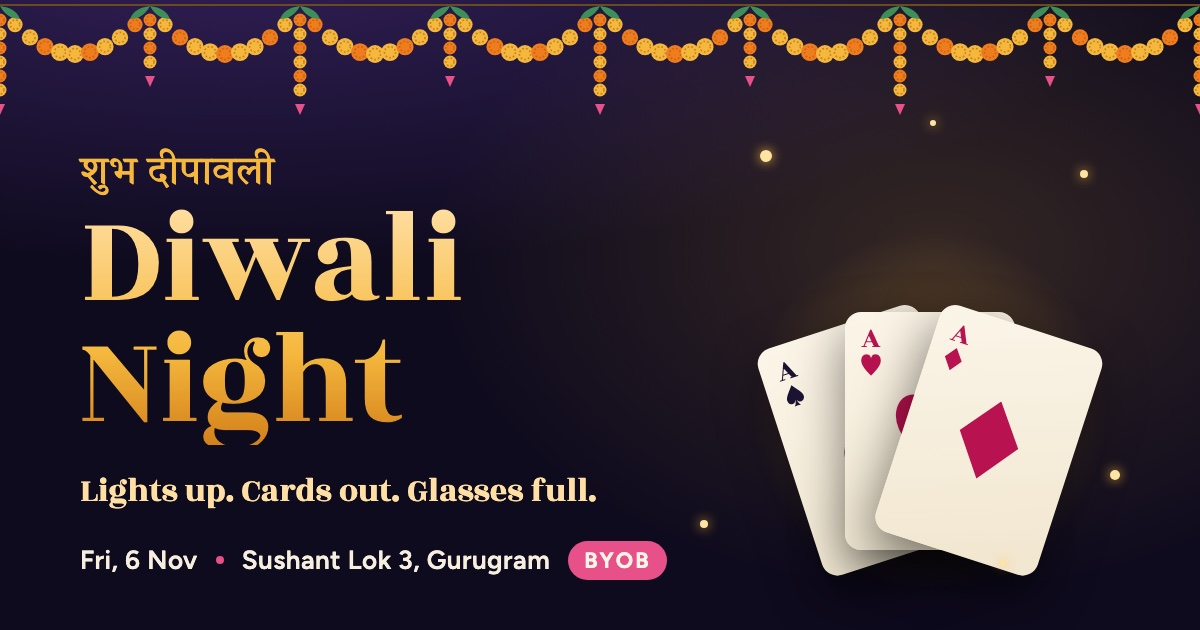
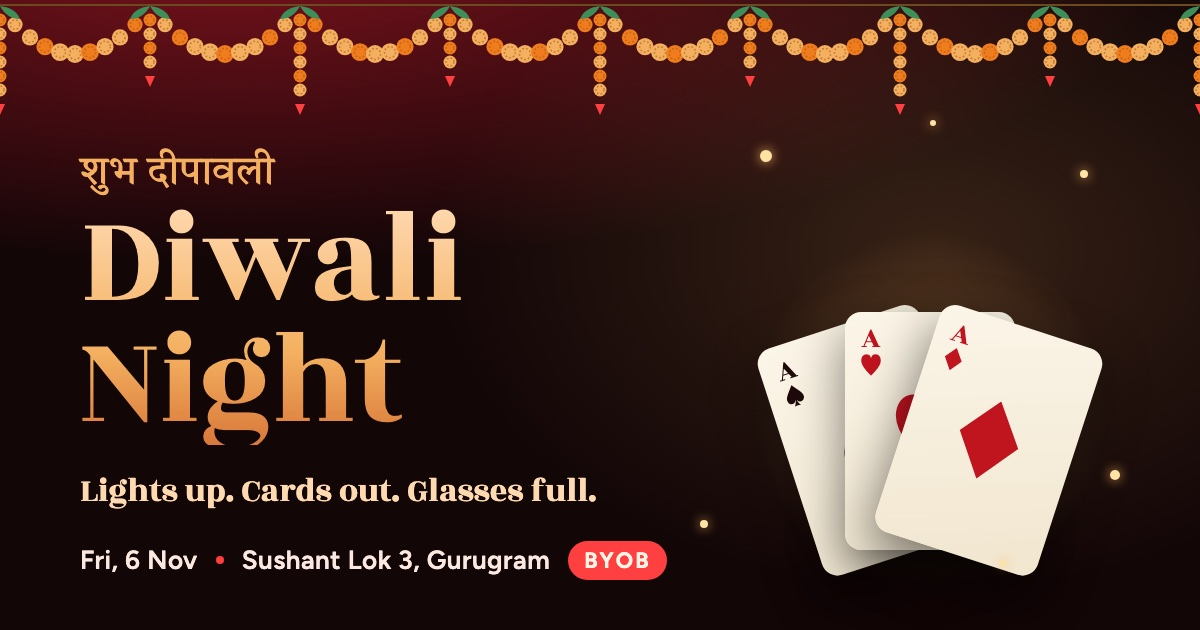
Red house-party colour theme; refresh link preview image

diff --git a/index.html b/index.html
@@ -3,19 +3,19 @@
 <head>
 <meta charset="utf-8">
 <meta name="viewport" content="width=device-width, initial-scale=1, viewport-fit=cover">
-<meta name="theme-color" content="#0F0B1E">
+<meta name="theme-color" content="#120607">
 <meta name="description" content="Lights up. Cards out. Glasses full. Cards, drinks and golden lights on Fri, 6 Nov at Sushant Lok 3, Gurugram. BYOB.">
 <meta property="og:type" content="website">
 <meta property="og:title" content="Diwali Night · Fri, 6 Nov">
 <meta property="og:description" content="Lights up. Cards out. Glasses full. Cards, drinks and golden lights at Sushant Lok 3, Gurugram. BYOB. Tap to RSVP.">
-<meta property="og:image" content="https://raw.githubusercontent.com/yatharthtaneja/diwali-invite/main/preview.jpg">
-<meta property="og:image:secure_url" content="https://raw.githubusercontent.com/yatharthtaneja/diwali-invite/main/preview.jpg">
+<meta property="og:image" content="https://raw.githubusercontent.com/yatharthtaneja/diwali-invite/main/preview.jpg?v=red">
+<meta property="og:image:secure_url" content="https://raw.githubusercontent.com/yatharthtaneja/diwali-invite/main/preview.jpg?v=red">
 <meta property="og:image:type" content="image/jpeg">
 <meta property="og:image:width" content="1200">
 <meta property="og:image:height" content="630">
 <meta property="og:image:alt" content="Diwali Night invite: three aces under a marigold garland">
 <meta name="twitter:card" content="summary_large_image">
-<meta name="twitter:image" content="https://raw.githubusercontent.com/yatharthtaneja/diwali-invite/main/preview.jpg">
+<meta name="twitter:image" content="https://raw.githubusercontent.com/yatharthtaneja/diwali-invite/main/preview.jpg?v=red">
 <title>Diwali Night Invite</title>
 <link rel="preconnect" href="https://fonts.googleapis.com">
 <link rel="preconnect" href="https://fonts.gstatic.com" crossorigin>
@@ -24,21 +24,21 @@
 /* Layout: a night-sky invitation. Marigold toran hangs across the top, centred title like a letterpress card,
    then the evening's details, three host cards for RSVP, and a row of unlit diyas that hides the game. */
 :root {
-  --night: #0F0B1E;
-  --dusk: #1A1430;
-  --dusk-2: #241B40;
-  --glow: #33205A;
-  --gold: #F5B83D;
-  --gold-soft: #FFDFA3;
-  --rani: #E8508A;
-  --rani-deep: #B8124F;
+  --night: #120607;
+  --dusk: #1F0B0C;
+  --dusk-2: #2C1012;
+  --glow: #7E121D;
+  --gold: #F4B060;
+  --gold-soft: #FFD9B0;
+  --rani: #FF4040;
+  --rani-deep: #C0141F;
   --leaf: #3E8E5A;
   --paper: #FBF5E8;
-  --ink: #1B1433;
-  --text: #F6EEDF;
-  --muted: #B3A8C8;
-  --line: rgba(245, 184, 61, 0.22);
-  --line-soft: rgba(246, 238, 223, 0.10);
+  --ink: #1E0A0B;
+  --text: #FBE8E1;
+  --muted: #C9A19C;
+  --line: rgba(244, 176, 96, 0.22);
+  --line-soft: rgba(251, 232, 225, 0.10);
 
   --f-display: "Rozha One", "Playfair Display", Georgia, serif;
   --f-body: "Figtree", system-ui, -apple-system, "Segoe UI", Roboto, sans-serif;
@@ -63,7 +63,7 @@ body {
   min-height: 100%;
   background:
     radial-gradient(130% 70% at 50% -10%, var(--glow) 0%, transparent 62%),
-    radial-gradient(80% 40% at 50% 105%, rgba(232, 80, 138, 0.10) 0%, transparent 70%),
+    radial-gradient(90% 45% at 50% 105%, rgba(255, 64, 64, 0.20) 0%, transparent 70%),
     var(--night);
   background-attachment: fixed;
   color: var(--text);
@@ -114,7 +114,7 @@ button { font: inherit; color: inherit; }
   border-radius: 10px;
   background: linear-gradient(160deg, var(--paper) 0%, #F1E6CF 100%);
   color: var(--ink);
-  box-shadow: 0 10px 30px rgba(0, 0, 0, .45), inset 0 0 0 1px rgba(27, 20, 51, .08);
+  box-shadow: 0 10px 30px rgba(0, 0, 0, .45), inset 0 0 0 1px rgba(30, 10, 11, .08);
   font-family: var(--f-display);
 }
 .card-face.red { color: var(--rani-deep); }
@@ -187,7 +187,7 @@ button { font: inherit; color: inherit; }
   font-family: var(--f-display); font-weight: 400;
   font-size: clamp(3rem, 15vw, 5.4rem); line-height: .95;
   letter-spacing: -.01em;
-  background: linear-gradient(180deg, var(--gold-soft) 0%, var(--gold) 70%, #D98A1F 100%);
+  background: linear-gradient(180deg, var(--gold-soft) 0%, var(--gold) 70%, #D9783A 100%);
   -webkit-background-clip: text; background-clip: text; color: transparent;
 }
 .intro-title p { margin: .2rem 0 0; color: var(--muted); letter-spacing: .28em; text-transform: uppercase; font-size: .78rem; font-weight: 600; }
@@ -204,11 +204,11 @@ button { font: inherit; color: inherit; }
 .gate-title {
   margin: 0; font-family: var(--f-display); font-weight: 400;
   font-size: clamp(3rem, 15vw, 5rem); line-height: .95;
-  background: linear-gradient(180deg, var(--gold-soft) 0%, var(--gold) 70%, #D98A1F 100%);
+  background: linear-gradient(180deg, var(--gold-soft) 0%, var(--gold) 70%, #D9783A 100%);
   -webkit-background-clip: text; background-clip: text; color: transparent;
   animation: breathe 2.4s ease-in-out infinite;
 }
-@keyframes breathe { 50% { filter: drop-shadow(0 0 18px rgba(245, 184, 61, .35)); } }
+@keyframes breathe { 50% { filter: drop-shadow(0 0 18px rgba(244, 176, 96, .35)); } }
 .gate-meta { margin: 0 0 1.2rem; color: var(--text); font-weight: 600; letter-spacing: .08em; font-size: var(--step--1); }
 
 /* disco lights + beat pulse */
@@ -224,13 +224,13 @@ button { font: inherit; color: inherit; }
   mix-blend-mode: screen;
   animation: sweep 3.87s ease-in-out infinite alternate;
 }
-.beam.b1 { background: linear-gradient(to top, rgba(232, 80, 138, .75), transparent 75%); left: 12%; animation-delay: -1s; }
-.beam.b2 { background: linear-gradient(to top, rgba(245, 184, 61, .7), transparent 75%); animation-duration: 2.9s; }
-.beam.b3 { background: linear-gradient(to top, rgba(67, 198, 181, .7), transparent 75%); left: 88%; animation-delay: -2.2s; animation-direction: alternate-reverse; }
+.beam.b1 { background: linear-gradient(to top, rgba(255, 64, 64, .75), transparent 75%); left: 12%; animation-delay: -1s; }
+.beam.b2 { background: linear-gradient(to top, rgba(244, 176, 96, .7), transparent 75%); animation-duration: 2.9s; }
+.beam.b3 { background: linear-gradient(to top, rgba(240, 133, 124, .7), transparent 75%); left: 88%; animation-delay: -2.2s; animation-direction: alternate-reverse; }
 @keyframes sweep { from { transform: rotate(-38deg); } to { transform: rotate(38deg); } }
 .pulse {
   position: absolute; inset: 0; pointer-events: none; opacity: 0;
-  background: radial-gradient(60% 50% at 50% 55%, rgba(232, 80, 138, .35), transparent 70%);
+  background: radial-gradient(60% 50% at 50% 55%, rgba(255, 64, 64, .35), transparent 70%);
 }
 #intro.is-groove .pulse { animation: kick .484s ease-out infinite; }
 @keyframes kick { 0% { opacity: 1; } 100% { opacity: 0; } }
@@ -247,14 +247,14 @@ button { font: inherit; color: inherit; }
   font-weight: 700; font-size: 1.05rem; letter-spacing: .04em;
   cursor: pointer;
   display: inline-flex; align-items: center; gap: .6rem;
-  box-shadow: 0 0 0 0 rgba(245, 184, 61, .5);
+  box-shadow: 0 0 0 0 rgba(244, 176, 96, .5);
   animation: pulse 2.2s ease-out infinite;
   transition: transform .2s var(--ease-out), background .2s;
 }
 .gate-btn:hover { background: var(--gold-soft); }
 .gate-btn:active { transform: scale(.97); }
 .gate-btn svg { width: 20px; height: 20px; }
-@keyframes pulse { 0% { box-shadow: 0 0 0 0 rgba(245, 184, 61, .45); } 100% { box-shadow: 0 0 0 22px rgba(245, 184, 61, 0); } }
+@keyframes pulse { 0% { box-shadow: 0 0 0 0 rgba(244, 176, 96, .45); } 100% { box-shadow: 0 0 0 22px rgba(244, 176, 96, 0); } }
 .gate-note { margin: .2rem 0 0; color: var(--muted); font-size: var(--step--1); }
 .gate-quiet { border: 0; background: none; color: var(--muted); font-size: var(--step--1); text-decoration: underline; text-underline-offset: 4px; text-decoration-color: var(--line); cursor: pointer; padding: .4rem; }
 .gate-quiet:hover { color: var(--text); }
@@ -265,7 +265,7 @@ button { font: inherit; color: inherit; }
   top: calc(14px + env(safe-area-inset-top, 0px)); right: 14px;
   width: 44px; height: 44px; border-radius: 50%;
   display: grid; place-items: center;
-  background: rgba(26, 20, 48, .78);
+  background: rgba(31, 11, 12, .78);
   border: 1px solid var(--line);
   backdrop-filter: blur(8px); -webkit-backdrop-filter: blur(8px);
   color: var(--gold-soft); cursor: pointer;
@@ -283,7 +283,7 @@ button { font: inherit; color: inherit; }
 #skip {
   position: absolute;
   right: 16px; bottom: calc(16px + env(safe-area-inset-bottom, 0px));
-  background: rgba(246, 238, 223, .06);
+  background: rgba(251, 232, 225, .06);
   border: 1px solid var(--line-soft);
   border-radius: 999px;
   padding: .55rem 1rem;
@@ -318,9 +318,9 @@ button { font: inherit; color: inherit; }
   font-size: var(--step-hero); line-height: .9;
   letter-spacing: -.015em;
   text-wrap: balance;
-  background: linear-gradient(180deg, var(--gold-soft) 0%, var(--gold) 62%, #D3801A 100%);
+  background: linear-gradient(180deg, var(--gold-soft) 0%, var(--gold) 62%, #D9783A 100%);
   -webkit-background-clip: text; background-clip: text; color: transparent;
-  filter: drop-shadow(0 6px 30px rgba(245, 184, 61, .18));
+  filter: drop-shadow(0 6px 30px rgba(244, 176, 96, .18));
 }
 .hero .lede { margin: 0; max-width: 34ch; font-size: clamp(1.05rem, 3.6vw, 1.3rem); color: var(--text); text-wrap: balance; }
 .hero .lede em { font-style: normal; color: var(--gold-soft); font-family: var(--f-display); font-size: 1.25em; line-height: 1.5; }
@@ -352,7 +352,7 @@ button { font: inherit; color: inherit; }
 .btn svg { width: 18px; height: 18px; flex: none; }
 .btn-gold { background: var(--gold); color: var(--ink); }
 .btn-gold:hover { background: var(--gold-soft); }
-.btn-ghost { border-color: var(--line); color: var(--text); background: rgba(245, 184, 61, .04); }
+.btn-ghost { border-color: var(--line); color: var(--text); background: rgba(244, 176, 96, .04); }
 .btn-ghost:hover { border-color: var(--gold); color: var(--gold-soft); }
 
 .sky-hint { margin: .4rem 0 0; font-size: var(--step--1); color: var(--muted); }
@@ -392,8 +392,8 @@ section.block { padding-block: 3.5rem; }
 .entry {
   justify-self: start; display: inline-flex; align-items: center; gap: .45rem;
   padding: .35rem .75rem; border-radius: 999px;
-  background: rgba(232, 80, 138, .14); border: 1px solid rgba(232, 80, 138, .4);
-  color: #FFD3E4; font-size: var(--step--1); font-weight: 600;
+  background: rgba(255, 64, 64, .14); border: 1px solid rgba(255, 64, 64, .4);
+  color: #FFD0C9; font-size: var(--step--1); font-weight: 600;
 }
 .entry svg { width: 15px; height: 15px; flex: none; }
 .detail .btn { justify-self: start; margin-top: .6rem; }
@@ -425,8 +425,8 @@ section.block { padding-block: 3.5rem; }
   border-radius: 50%;
   display: grid; place-items: center;
   font-family: var(--f-display); font-size: 1.5rem; color: var(--ink);
-  background: radial-gradient(circle at 35% 30%, var(--gold-soft), var(--gold) 60%, #C9771A);
-  box-shadow: 0 0 0 4px rgba(245, 184, 61, .12);
+  background: radial-gradient(circle at 35% 30%, var(--gold-soft), var(--gold) 60%, #C96A30);
+  box-shadow: 0 0 0 4px rgba(244, 176, 96, .12);
 }
 .host-name { font-family: var(--f-display); font-size: var(--step-1); line-height: 1.15; overflow-wrap: anywhere; }
 .host-phone { color: var(--muted); font-variant-numeric: tabular-nums; user-select: all; -webkit-user-select: all; font-size: var(--step--1); }
@@ -468,7 +468,7 @@ section.block { padding-block: 3.5rem; }
   position: fixed; inset: 0; z-index: 70;
   display: grid; place-items: center;
   padding: 16px;
-  background: rgba(10, 7, 22, .72);
+  background: rgba(18, 6, 7, .72);
   backdrop-filter: blur(6px); -webkit-backdrop-filter: blur(6px);
   opacity: 0; transition: opacity .35s ease;
 }
@@ -585,16 +585,16 @@ section.block { padding-block: 3.5rem; }
       <stop offset="1" stop-color="#E9A12E"/>
     </linearGradient>
     <radialGradient id="mgA" cx=".4" cy=".35" r=".7">
-      <stop offset="0" stop-color="#FFE08A"/><stop offset=".6" stop-color="#F5B83D"/><stop offset="1" stop-color="#C97A12"/>
+      <stop offset="0" stop-color="#FFE08A"/><stop offset=".6" stop-color="#F4B060"/><stop offset="1" stop-color="#C97A12"/>
     </radialGradient>
     <radialGradient id="mgB" cx=".4" cy=".35" r=".7">
       <stop offset="0" stop-color="#FFB46B"/><stop offset=".6" stop-color="#F07C1E"/><stop offset="1" stop-color="#B4500C"/>
     </radialGradient>
     <radialGradient id="flameG" cx=".5" cy=".75" r=".75">
-      <stop offset="0" stop-color="#FFFFFF"/><stop offset=".35" stop-color="#FFE7A0"/><stop offset=".75" stop-color="#F5A623"/><stop offset="1" stop-color="#E8508A" stop-opacity=".0"/>
+      <stop offset="0" stop-color="#FFFFFF"/><stop offset=".35" stop-color="#FFE7A0"/><stop offset=".75" stop-color="#F5A623"/><stop offset="1" stop-color="#FF4040" stop-opacity=".0"/>
     </radialGradient>
     <radialGradient id="haloG" cx=".5" cy=".5" r=".5">
-      <stop offset="0" stop-color="#F5B83D" stop-opacity=".55"/><stop offset="1" stop-color="#F5B83D" stop-opacity="0"/>
+      <stop offset="0" stop-color="#F4B060" stop-opacity=".55"/><stop offset="1" stop-color="#F4B060" stop-opacity="0"/>
     </radialGradient>
     <linearGradient id="clay" x1="0" y1="0" x2="0" y2="1">
       <stop offset="0" stop-color="#D9773A"/><stop offset="1" stop-color="#8A3B16"/>
@@ -604,10 +604,10 @@ section.block { padding-block: 3.5rem; }
       <circle class="bubble" cx="26" cy="64" r="1.4" fill="#FFF6DA"/>
       <circle class="bubble" cx="33" cy="66" r="1.1" fill="#FFF6DA"/>
       <circle class="bubble" cx="29" cy="62" r="1" fill="#FFF6DA"/>
-      <path d="M12 6 L48 6 L44 70 Q30 86 16 70 Z" fill="rgba(255,255,255,.07)" stroke="#FFDFA3" stroke-width="1.6" stroke-linejoin="round"/>
+      <path d="M12 6 L48 6 L44 70 Q30 86 16 70 Z" fill="rgba(255,255,255,.07)" stroke="#FFD9B0" stroke-width="1.6" stroke-linejoin="round"/>
       <path d="M17 12 L19 58" stroke="#FFFFFF" stroke-opacity=".35" stroke-width="2" stroke-linecap="round"/>
-      <rect x="28.6" y="80" width="2.8" height="60" rx="1.4" fill="#FFDFA3"/>
-      <ellipse cx="30" cy="143" rx="17" ry="4" fill="none" stroke="#FFDFA3" stroke-width="1.6"/>
+      <rect x="28.6" y="80" width="2.8" height="60" rx="1.4" fill="#FFD9B0"/>
+      <ellipse cx="30" cy="143" rx="17" ry="4" fill="none" stroke="#FFD9B0" stroke-width="1.6"/>
     </g>
     <g id="diya-art">
       <ellipse class="halo" cx="32" cy="30" rx="30" ry="30" fill="url(#haloG)"/>
@@ -615,8 +615,8 @@ section.block { padding-block: 3.5rem; }
         <path class="flame-inner" d="M32 8 C38 18 40 24 36.5 30 C34.5 33.5 29.5 33.5 27.5 30 C24 24 26 18 32 8 Z" fill="url(#flameG)"/>
       </g>
       <path d="M6 36 Q8 33 12 34 L52 34 Q56 33 58 36 Q54 56 32 57 Q10 56 6 36 Z" fill="url(#clay)"/>
-      <path d="M6 36 Q32 42 58 36" fill="none" stroke="#F5B83D" stroke-width="1.6" opacity=".9"/>
-      <path d="M14 45 Q32 50 50 45" fill="none" stroke="#FFDFA3" stroke-width="1" stroke-dasharray="1.5 3.5" stroke-linecap="round" opacity=".8"/>
+      <path d="M6 36 Q32 42 58 36" fill="none" stroke="#F4B060" stroke-width="1.6" opacity=".9"/>
+      <path d="M14 45 Q32 50 50 45" fill="none" stroke="#FFD9B0" stroke-width="1" stroke-dasharray="1.5 3.5" stroke-linecap="round" opacity=".8"/>
       <ellipse cx="32" cy="33.5" rx="4" ry="1.4" fill="#3A1A0A"/>
     </g>
   </defs>
@@ -683,10 +683,10 @@ section.block { padding-block: 3.5rem; }
           <div class="byob">
             <svg class="stamp" viewBox="0 0 100 100" aria-hidden="true">
               <defs><path id="circ" d="M50 50 m-38 0 a38 38 0 1 1 76 0 a38 38 0 1 1 -76 0"/></defs>
-              <circle cx="50" cy="50" r="48" fill="none" stroke="#F5B83D" stroke-width="1.2"/>
-              <circle cx="50" cy="50" r="28" fill="#E8508A"/>
+              <circle cx="50" cy="50" r="48" fill="none" stroke="#F4B060" stroke-width="1.2"/>
+              <circle cx="50" cy="50" r="28" fill="#FF4040"/>
               <g class="ring">
-                <text font-family="Figtree, sans-serif" font-size="9.2" font-weight="700" letter-spacing="2.6" fill="#FFDFA3">
+                <text font-family="Figtree, sans-serif" font-size="9.2" font-weight="700" letter-spacing="2.6" fill="#FFD9B0">
                   <textPath href="#circ">BRING YOUR OWN BOTTLE ✦ BRING YOUR OWN BOTTLE ✦</textPath>
                 </text>
               </g>
@@ -849,7 +849,7 @@ const INVITE = {
     const sw = w / n, depth = Math.min(w < 600 ? 42 : 54, sw * .38);
     let out = `<line x1="0" y1="5" x2="${w}" y2="5" stroke="#6B4A1F" stroke-width="1.5"/>`;
     // fairy lights: one long draped strand, swags twice as wide as the garland's, sitting under it
-    const fw = sw * 2, fd = h - 26, cols = ["#FFF1C9", "#FFF1C9", "#F5B83D", "#FF8DB8", "#FFF1C9", "#7FE3D4"];
+    const fw = sw * 2, fd = h - 26, cols = ["#FFF1C9", "#FFF1C9", "#F4B060", "#FF8A80", "#FFF1C9", "#F7A9A0"];
     let bi = 0;
     for (let x0 = -sw; x0 < w + sw; x0 += fw) {
       const yAt = t => 12 + 4 * fd * t * (1 - t);
@@ -878,7 +878,7 @@ const INVITE = {
       out += `<path d="M${x} 6 q-14 2 -18 12 q12 0 18 -12 z M${x} 6 q14 2 18 12 q-12 0 -18 -12 z" fill="#3E8E5A"/>`;
       for (let j = 0; j < len; j++) out += bloom(x, 18 + j * 12, 5.6, j % 2 ? "mgB" : "mgA");
       const yb = 18 + len * 12;
-      out += `<path d="M${x - 4} ${yb} l4 9 l4 -9 z" fill="#E8508A"/>`;
+      out += `<path d="M${x - 4} ${yb} l4 9 l4 -9 z" fill="#FF4040"/>`;
     }
     svg.setAttribute("viewBox", `0 0 ${w} ${h}`);
     svg.innerHTML = out;
@@ -894,11 +894,11 @@ const INVITE = {
   const Sky = (() => {
     const cv = $("#sky"), ctx = cv.getContext("2d");
     const PAL = [
-      ["#FFE3A3", "#F5B83D", "#FFB347", "#FFF4D6"],
-      ["#FF8DB8", "#E8508A", "#FFD3E4", "#FFB0CC"],
-      ["#9FF0E1", "#43C6B5", "#E8FFF9", "#7FE3D4"],
-      ["#C9B6FF", "#8E6CFF", "#F1EBFF", "#B39DFF"],
-      ["#FFFFFF", "#FFE9C2", "#F5B83D", "#FFF6E0"],
+      ["#FFE3A3", "#F4B060", "#FFB347", "#FFF4D6"],
+      ["#FF8A80", "#FF4040", "#FFD0C9", "#FFA79E"],
+      ["#FFC4BC", "#F0857C", "#FFEDEA", "#F7A9A0"],
+      ["#FF9A9A", "#E0303A", "#FFE5E5", "#FF6B6B"],
+      ["#FFFFFF", "#FFE9C2", "#F4B060", "#FFF6E0"],
       ["#FF9F5A", "#F07C1E", "#FFD27A", "#FFE3A3"]
     ];
     const TYPES = ["peony", "ring", "willow", "crossette", "peony", "double"];
@@ -971,7 +971,7 @@ const INVITE = {
         ctx.globalAlpha = 1;
         ctx.strokeStyle = "#FFE3A3"; ctx.lineWidth = 2.4;
         ctx.beginPath(); ctx.moveTo(r.px, r.py + 10); ctx.lineTo(r.x, r.y); ctx.stroke();
-        if (Math.random() < .6 && parts.length < 1400) parts.push({ x: r.x, y: r.y, px: r.x, py: r.y, vx: rnd(-.5, .5), vy: rnd(.5, 1.5), life: .7, decay: .04, g: .02, drag: .96, c: "#F5B83D", w: 1.4 });
+        if (Math.random() < .6 && parts.length < 1400) parts.push({ x: r.x, y: r.y, px: r.x, py: r.y, vx: rnd(-.5, .5), vy: rnd(.5, 1.5), life: .7, decay: .04, g: .02, drag: .96, c: "#F4B060", w: 1.4 });
         if (p >= 1) { rockets.splice(i, 1); burst(r.x, r.y, r.o); }
       }
 
@@ -1030,7 +1030,7 @@ const INVITE = {
       }
     }
     function confetti(n = 140) {
-      const cols = ["#F5B83D", "#E8508A", "#43C6B5", "#FFDFA3", "#8E6CFF", "#FFFFFF"];
+      const cols = ["#F4B060", "#FF4040", "#F0857C", "#FFD9B0", "#E0303A", "#FFFFFF"];
       for (let i = 0; i < n; i++) parts.push({
         conf: true, x: rnd(0, W), y: rnd(-H * .4, -10), vx: rnd(-1, 1), vy: rnd(1.6, 3.4),
         rot: rnd(0, 6.28), vr: rnd(-.12, .12), w: rnd(6, 10), h: rnd(10, 16),
